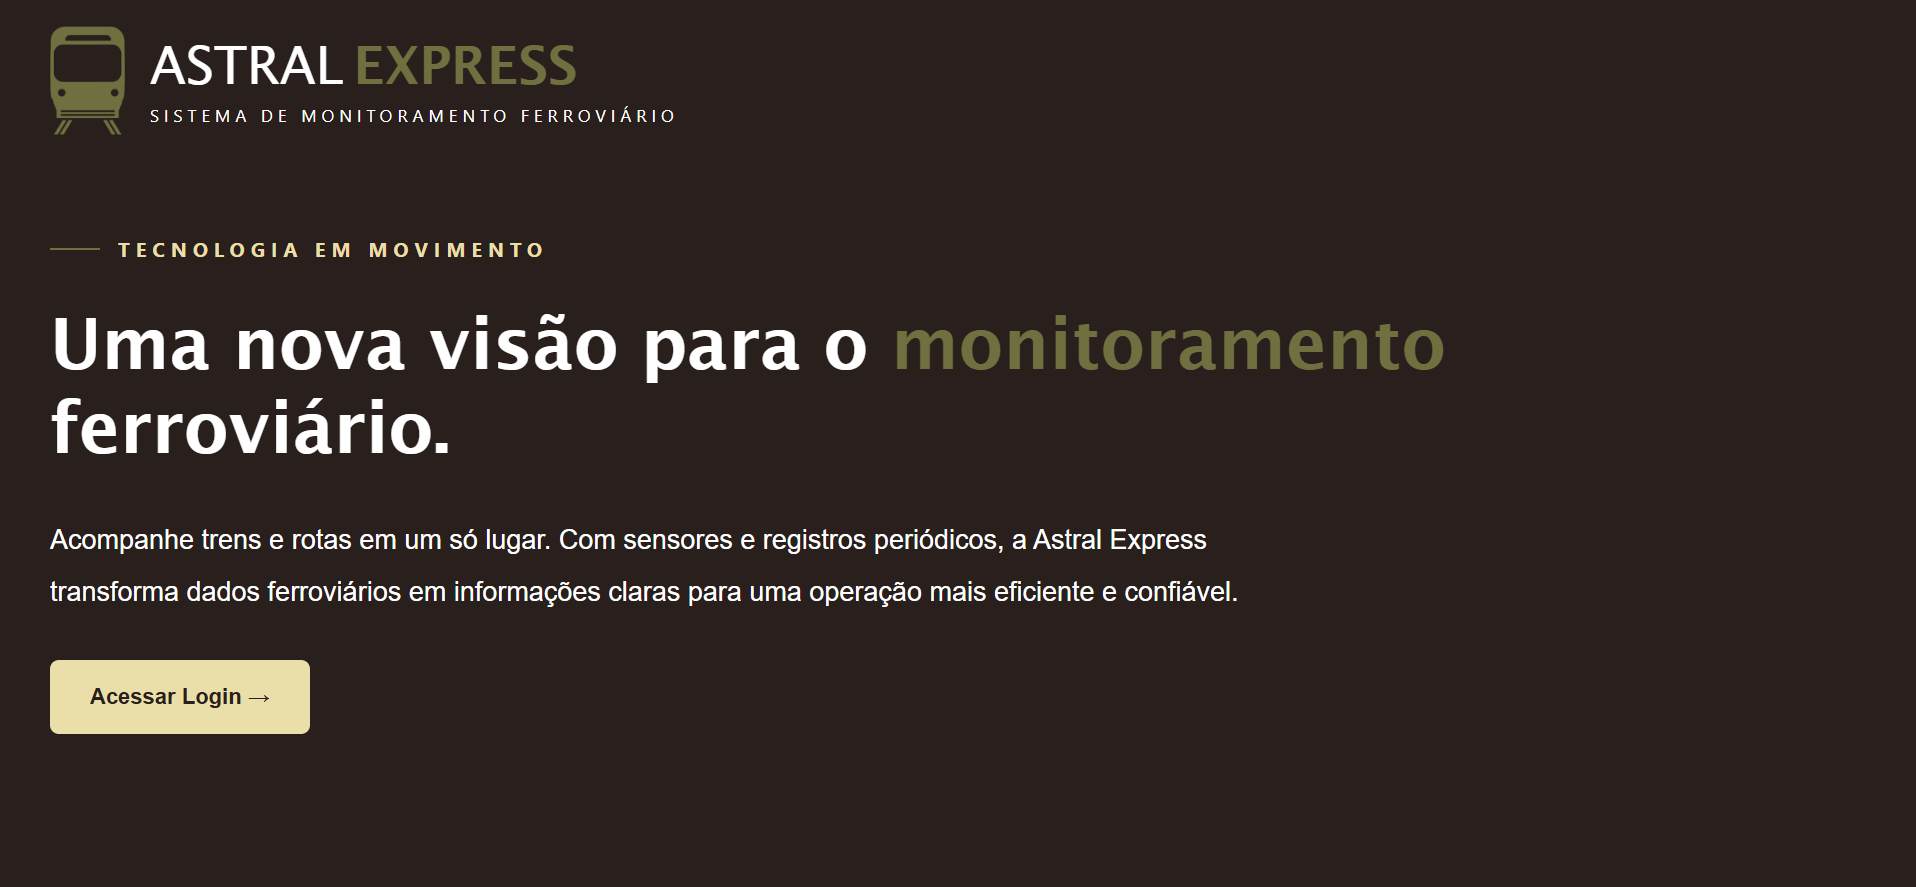
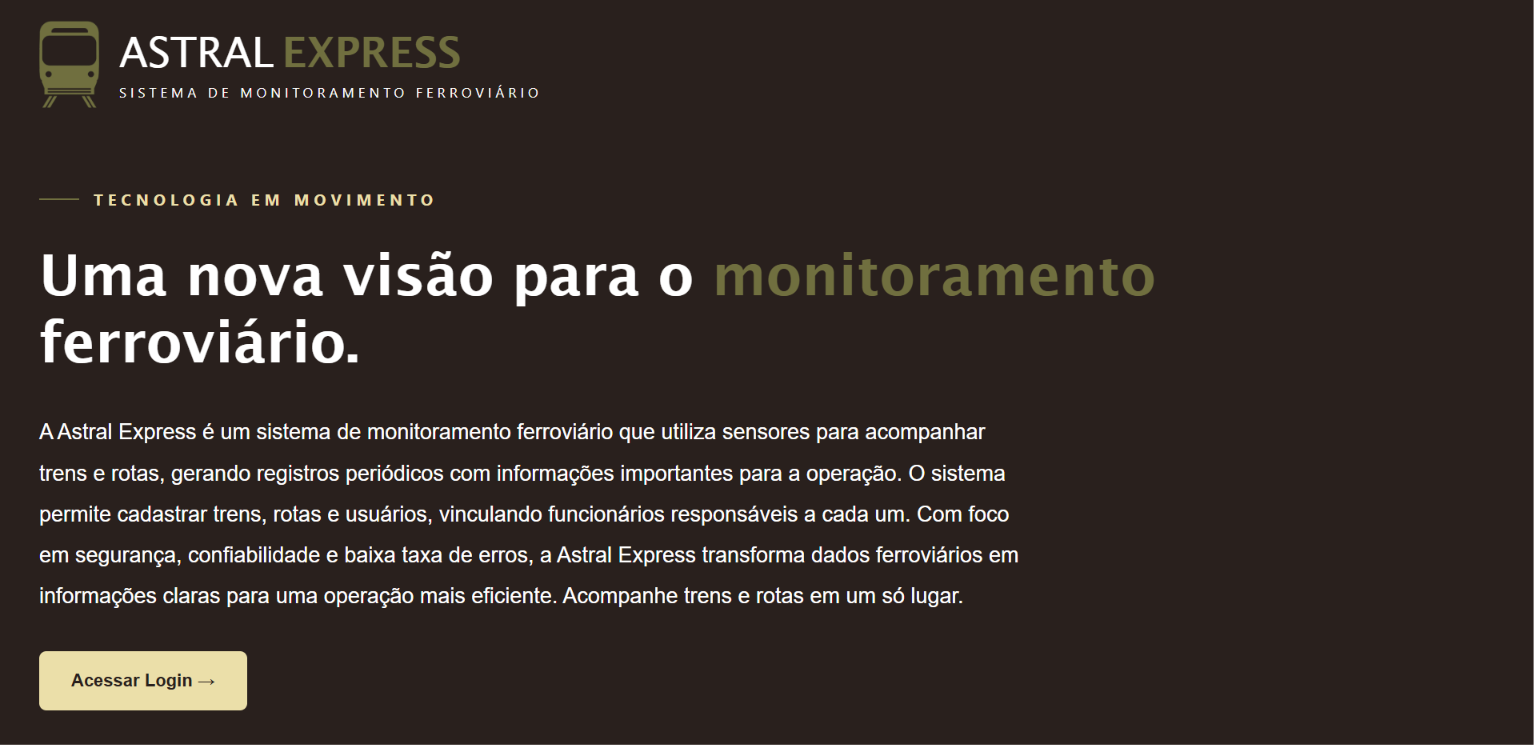
fix - edição, imagens e pesquisa identidade visual

diff --git a/public/editar_usuario.php b/public/editar_usuario.php
@@ -21,7 +21,7 @@ $cidade = $_POST["cidade"];
 $uf = $_POST["uf"];
 $id = $_GET["id"];
 
-if (mb_strlen($nome) < 3 || !preg_match('/^[\p{L}]+$/u', $nome)) {
+if (mb_strlen($nome) < 3 || !preg_match('/^[\p{L}\s]+$/u', $nome)) {
     echo "<script>alert('Nome inválido! O nome deve conter apenas letras e no mínimo 3');
     window.location.href = 'formulario_editar_usuario.php?id=$id';
     </script>";

diff --git a/infra/conexao.php b/infra/conexao.php
@@ -4,7 +4,7 @@ $host = "localhost";
 $user = "root";
 $pass = "";
 $database = "sistema_ferroviario_astral_express2";
-$port = 3306;
+$port = 3308;
 
 $conn = new mysqli($host, $user, $pass, $database, $port);
 

diff --git a/doc/pesquisas/identidade_visual.md b/doc/pesquisas/identidade_visual.md
@@ -10,9 +10,9 @@ A identidade visual e a coerência na escolha das cores são partes essenciais n
 
 Utilizamos tons de verde, pois muitas pessoas associam as viagens de trem à natureza e à tranquilidade. Além disso, o verde representa renovação, equilíbrio e harmonia, sendo também associado à segurança, algo que qualquer empresa de transporte busca transmitir aos seus possíveis passageiros. Mantivemos o site objetivo, prático e funcional.
 
-Também utilizamos um recurso que muda a cor dos botões quando o cursor do mouse passa por cima, visando melhorar a usabilidade e facilitar a utilização do sistema. Nos botões de exclusão a cor muda de verde para vermelho, chamando mais a atenção do usuário durante a operação e deixando mais claro o risco daquela ação.
+Também utilizamos um recurso que altera a cor dos botões quando o cursor do mouse passa por cima, visando melhorar a usabilidade e facilitar a utilização do sistema. Os botões de exclusão possuem a cor vermelha, enquanto os de atualização são azuis. Essa diferenciação visual ajuda o usuário a identificar melhor a finalidade de cada ação, tornando a navegação mais intuitiva e destacando as operações que podem modificar ou remover informações do sistema.
 
-![Botões de exclusão em vermelho](../../assets/img/botao_excluir.png)
+>VOU COLOCAR FOTO DA VERSÃO FINAL DA TABELA PRA MOSTRAR BOTÕES AQUI<
 
 Optamos por utilizar a imagem de um trem em nossa logo, pois ela transmite bem o objetivo e a identidade da nossa empresa no ramo ferroviário. Também colocamos fotos de trens, ferrovias e paisagens no site a fim de torná-lo mais atrativo para os usuários.
 
